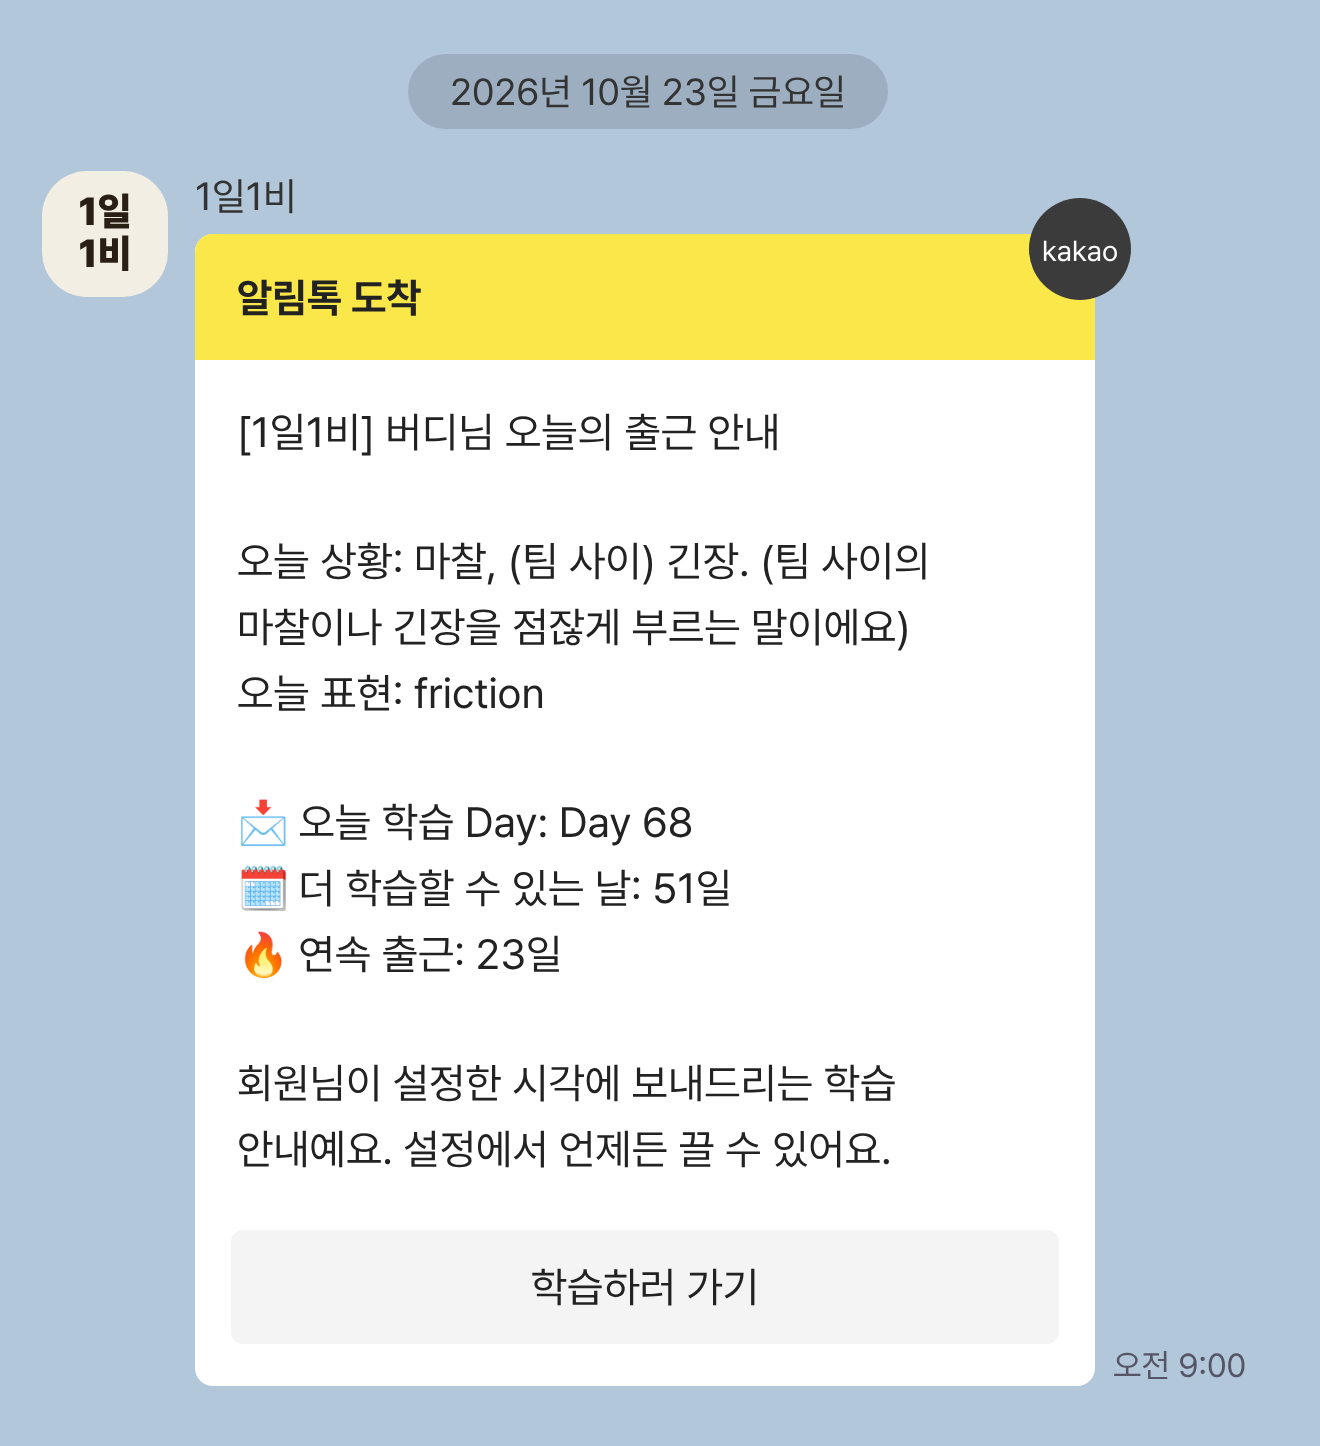
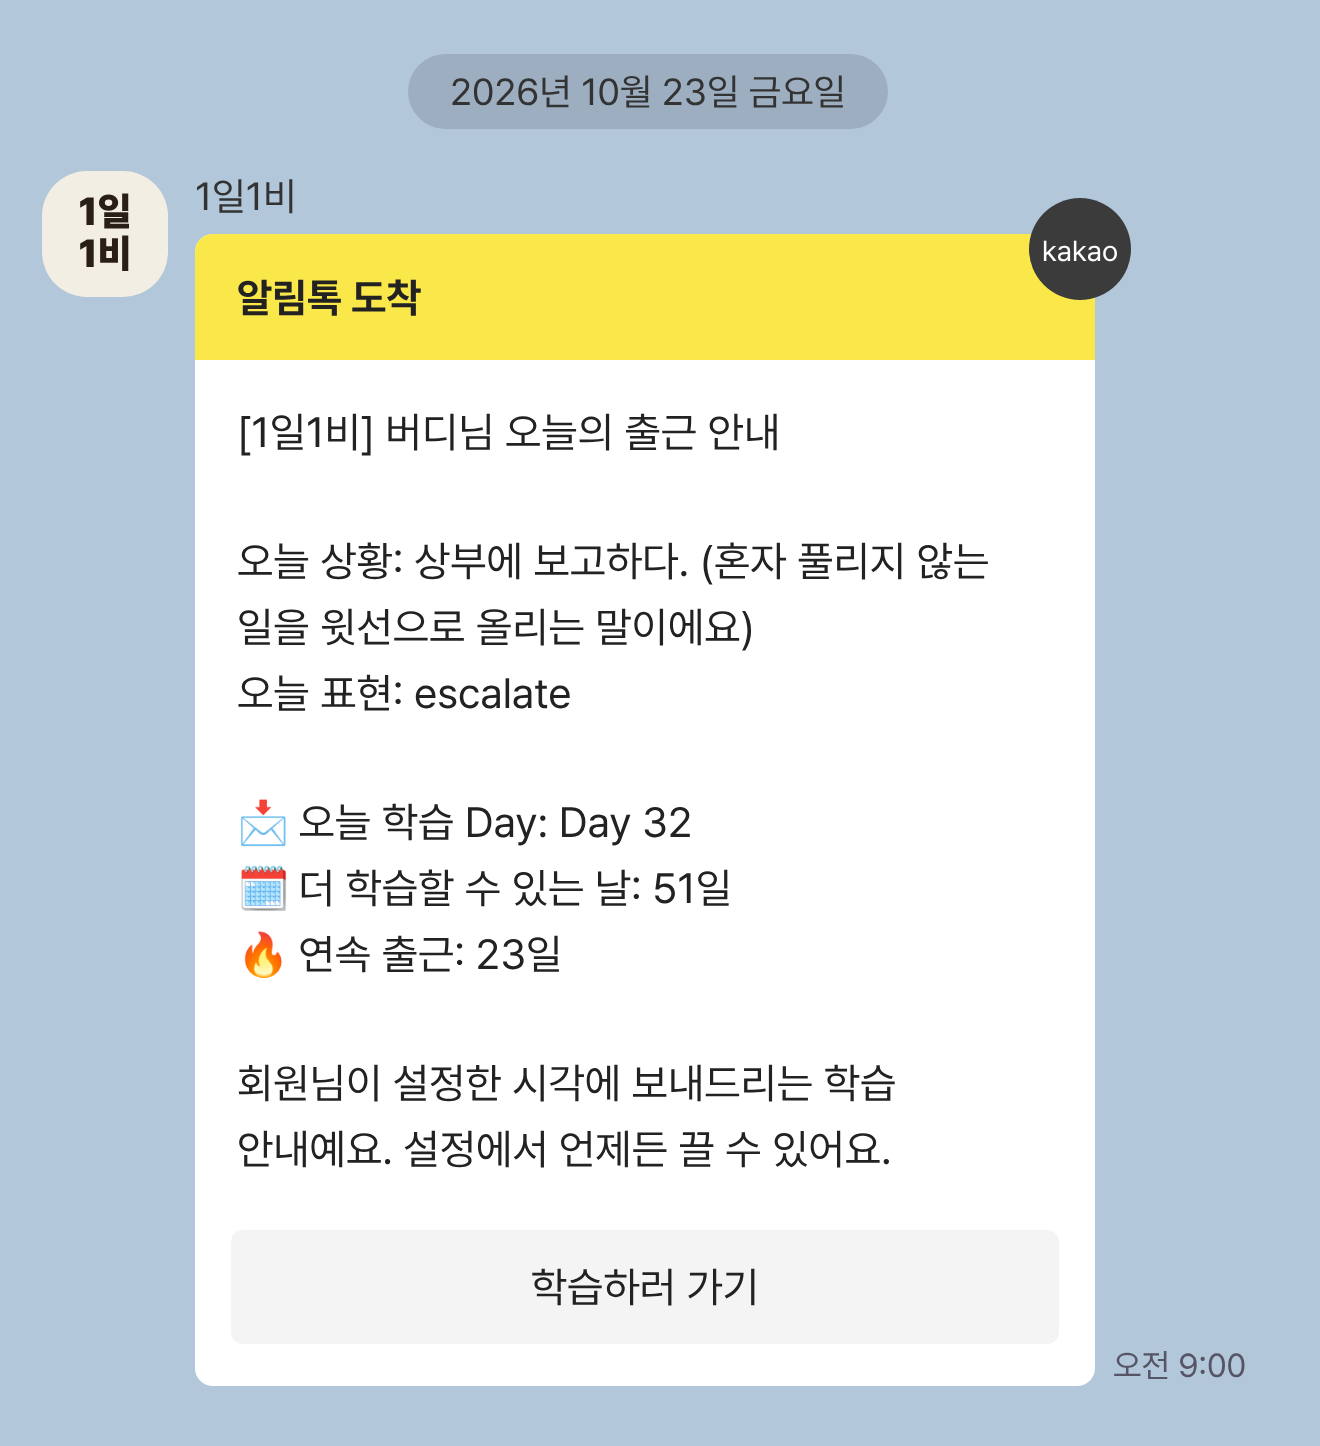
카톡 출근 알림 예시 단어 friction → escalate
Claude-Session: https://claude.ai/code/session_019FF1v9psR2WW9aDJJCwvaH

Changed region(s): [[0.1864, 0.3734, 0.7455, 0.4979], [0.497, 0.5602, 0.528, 0.5913]]

diff --git a/onboarding.html b/onboarding.html
@@ -1934,7 +1934,7 @@ function WhyMock({ kind }) {
       <SectionTitle eyebrow="ON YOUR PHONE" title="출퇴근길 폰으로, 혼자가 아니게" sub="앱 설치 없이 폰 하나로 출근하고, 알림이 챙겨줘요." />
       <div style={{ display: "flex", gap: 12, alignItems: "flex-start" }}>
         <figure style={{ margin: 0, flex: "0 0 52%" }}>
-          <img src="img/kakao-alimtalk.png" alt="실제 1일1비 카카오톡 출근 알림: 오늘 상황, 오늘 표현, 오늘 학습 Day, 연속 출근, 학습하러 가기 버튼" loading="lazy"
+          <img src="img/kakao-alimtalk.png" alt="1일1비 카카오톡 출근 알림 예시(escalate): 오늘 상황, 오늘 표현, 오늘 학습 Day, 연속 출근, 학습하러 가기 버튼" loading="lazy"
             style={{ display: "block", width: "100%", height: "auto", borderRadius: 12, border: "1px solid var(--line)" }} />
           <figcaption style={{ fontSize: 10, color: "var(--ink-mute)", marginTop: 6, textAlign: "center" }}>매일 아침 오는 카톡 출근 알림</figcaption>
         </figure>
